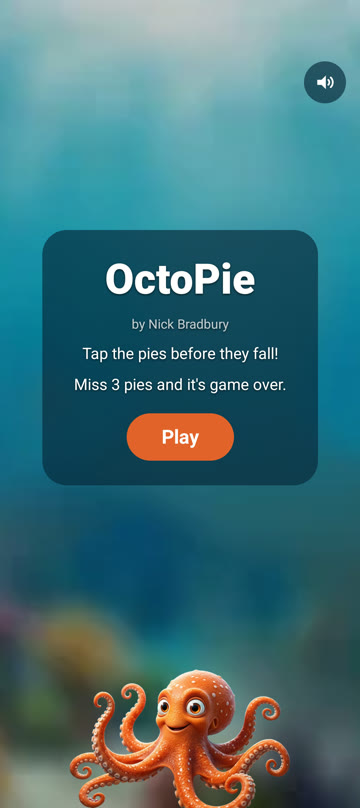
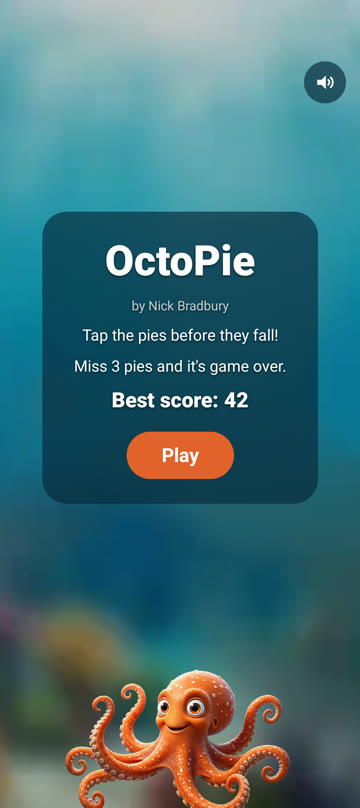
Update the README for golden pies, pause and haptics

diff --git a/README.md b/README.md
@@ -3,25 +3,30 @@
 An Android arcade game: pies rain down through the reef, and you tap them so the octopus can whip out a tentacle and grab them before they fall off the screen. The pies come faster and in bigger bunches the longer you last. Miss three and the octopus pops.
 
 <p>
-  <img src="docs/screenshots/menu.jpg" width="200" alt="Start screen">
-  <img src="docs/screenshots/reach.jpg" width="200" alt="A tentacle reaching for a pie">
-  <img src="docs/screenshots/surprised.jpg" width="200" alt="The octopus looking surprised after the third miss">
-  <img src="docs/screenshots/pop.jpg" width="200" alt="The octopus popping">
+  <img src="docs/screenshots/menu.jpg" width="160" alt="Start screen">
+  <img src="docs/screenshots/reach.jpg" width="160" alt="A tentacle reaching for a pie">
+  <img src="docs/screenshots/golden.jpg" width="160" alt="A glowing golden pie marked +5">
+  <img src="docs/screenshots/surprised.jpg" width="160" alt="The octopus looking surprised after the third miss">
+  <img src="docs/screenshots/pop.jpg" width="160" alt="The octopus popping">
 </p>
 
 ## How to play
 
 - Tap a falling pie and the octopus sends a tentacle after it. The tentacle chases the pie as it falls, reels it in, and the octopus gulps it down.
-- Each pie caught is one point. Your best score is saved.
+- Each pie caught is one point. Your best score is saved and shown on the start screen.
+- About one pie in twelve is golden: it glows, carries a "+5" and is worth five points. Letting a golden pie fall costs nothing.
 - Up to eight tentacles can be out at once.
-- A pie that falls off the bottom costs a life; lose three and it's game over.
+- A regular pie that falls off the bottom costs a life; lose three and it's game over.
 - Every 15 seconds the level goes up: pies fall faster, arrive more often, come in bursts, and the music speeds up.
+- Pause with the button in the corner or with Back. The game also pauses by itself whenever the app loses focus, so a phone call never costs you a life.
 
 ## Features
 
 - The octopus watches the closest pie, gently sways its arms, and reaches with a different arm each time.
 - When the game is lost it looks surprised, puffs up and pops in a burst of bubbles.
-- Swoosh, gulp and pop sound effects, background music, haptics, and a sound toggle (which also silences vibration) on the start, pause and game-over screens.
+- Swoosh, gulp and pop sound effects and background music.
+- Haptics: a tick for each pie swallowed, a stronger click for a golden one, a buzz for a miss and a thump when the octopus pops.
+- A sound toggle on the start, pause and game-over screens that silences vibration too.
 - Full screen, portrait only.
 
 ## Building
@@ -39,8 +44,8 @@ Kotlin and Jetpack Compose, with the game drawn on a single `Canvas` and driven 
 
 | File | What it does |
 |---|---|
-| `game/GameEngine.kt` | The rules, in plain Kotlin with no Android dependencies: pies, tentacles, lives, levels, the octopus's gaze. `Difficulty` holds the tuning curves. |
-| `game/GameScreen.kt` | The frame loop, touch handling, drawing order and the HUD and menu overlays. |
+| `game/GameEngine.kt` | The rules, in plain Kotlin with no Android dependencies: pies, tentacles, lives, levels, pausing and the octopus's gaze. It reports what happened each frame as `GameEvent`s, and `Difficulty` holds the tuning curves. |
+| `game/GameScreen.kt` | The frame loop, touch handling, drawing order, the HUD and menu overlays, and the sounds and haptics played for each `GameEvent`. |
 | `game/OctopusDrawing.kt` | The octopus: swaying arms (a bitmap mesh warp), eyes that follow the pies, and the surprised-and-pop game-over sequence. |
 | `game/TentacleDrawing.kt` | Draws a reaching tentacle as a tapered, curling Bézier with suckers. |
 | `game/GameSounds.kt`, `game/BackgroundMusic.kt` | Sound effects (`SoundPool`) and looping music (`MediaPlayer`) whose tempo follows the level. |
